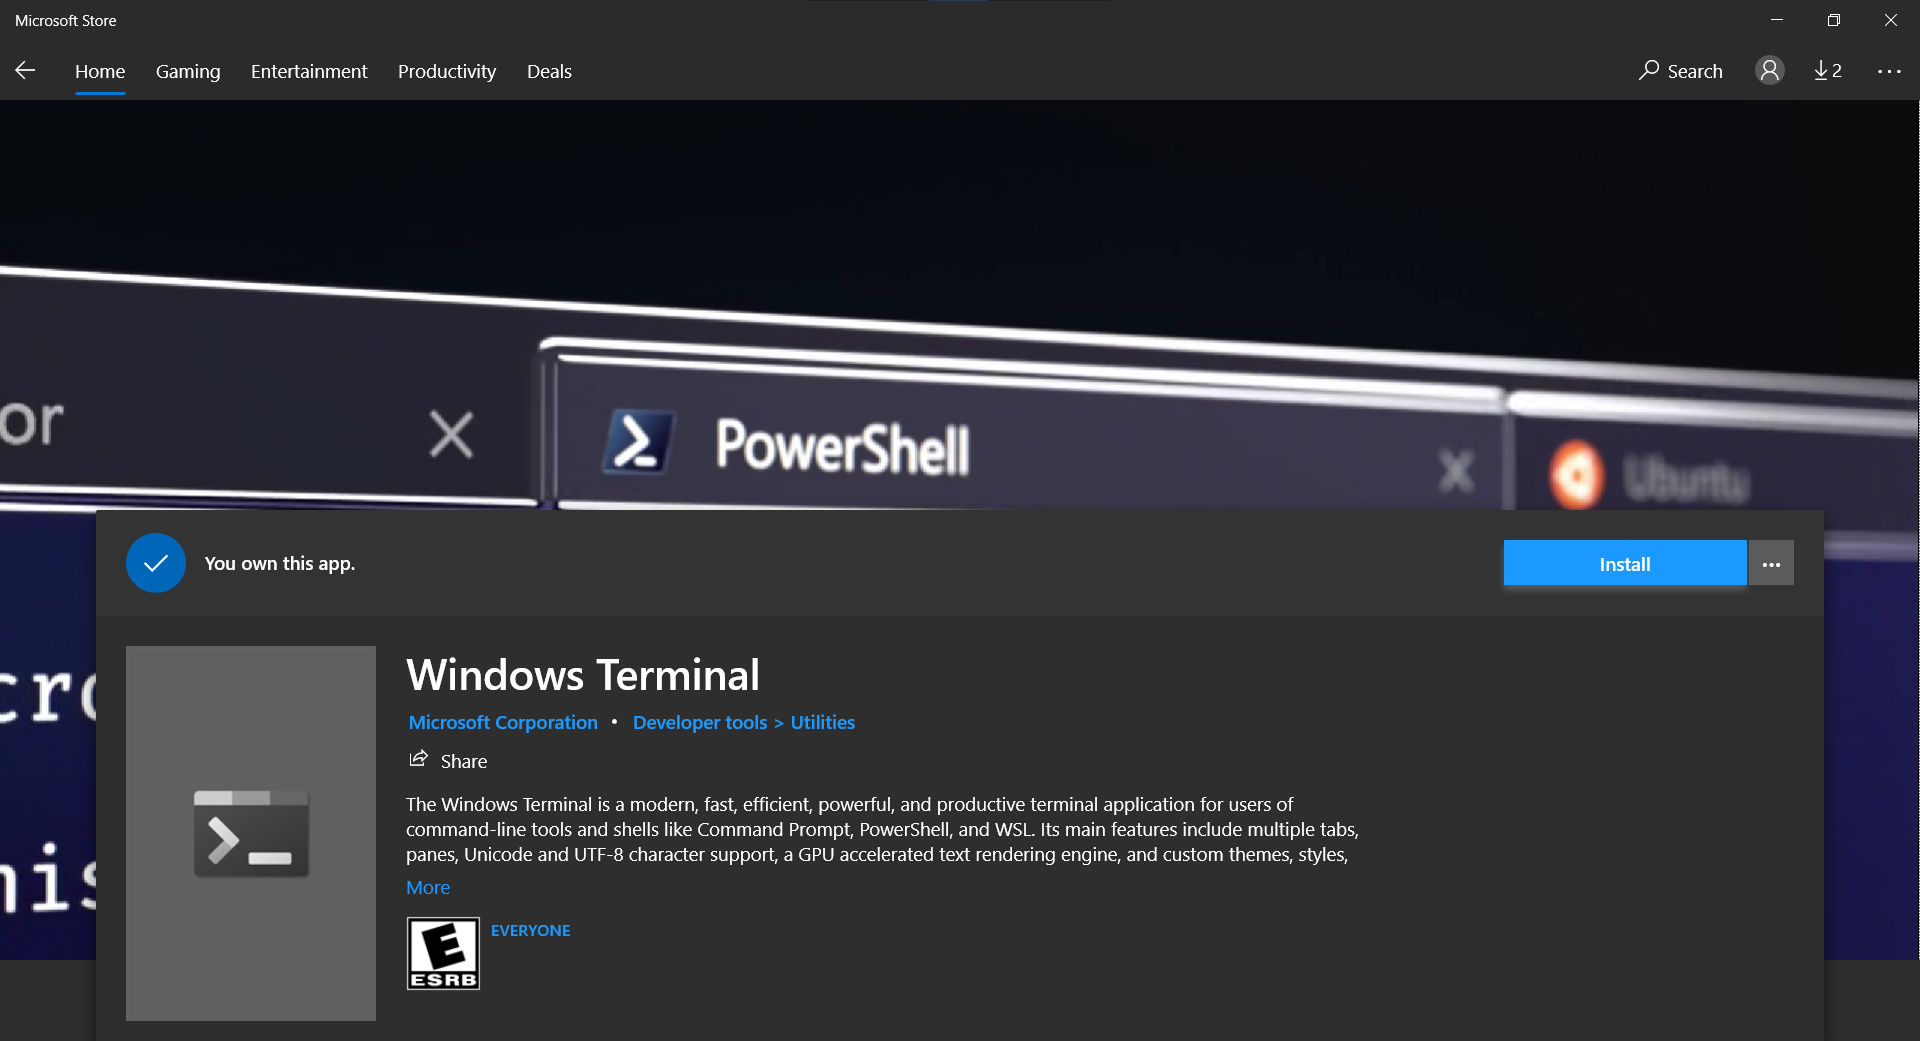
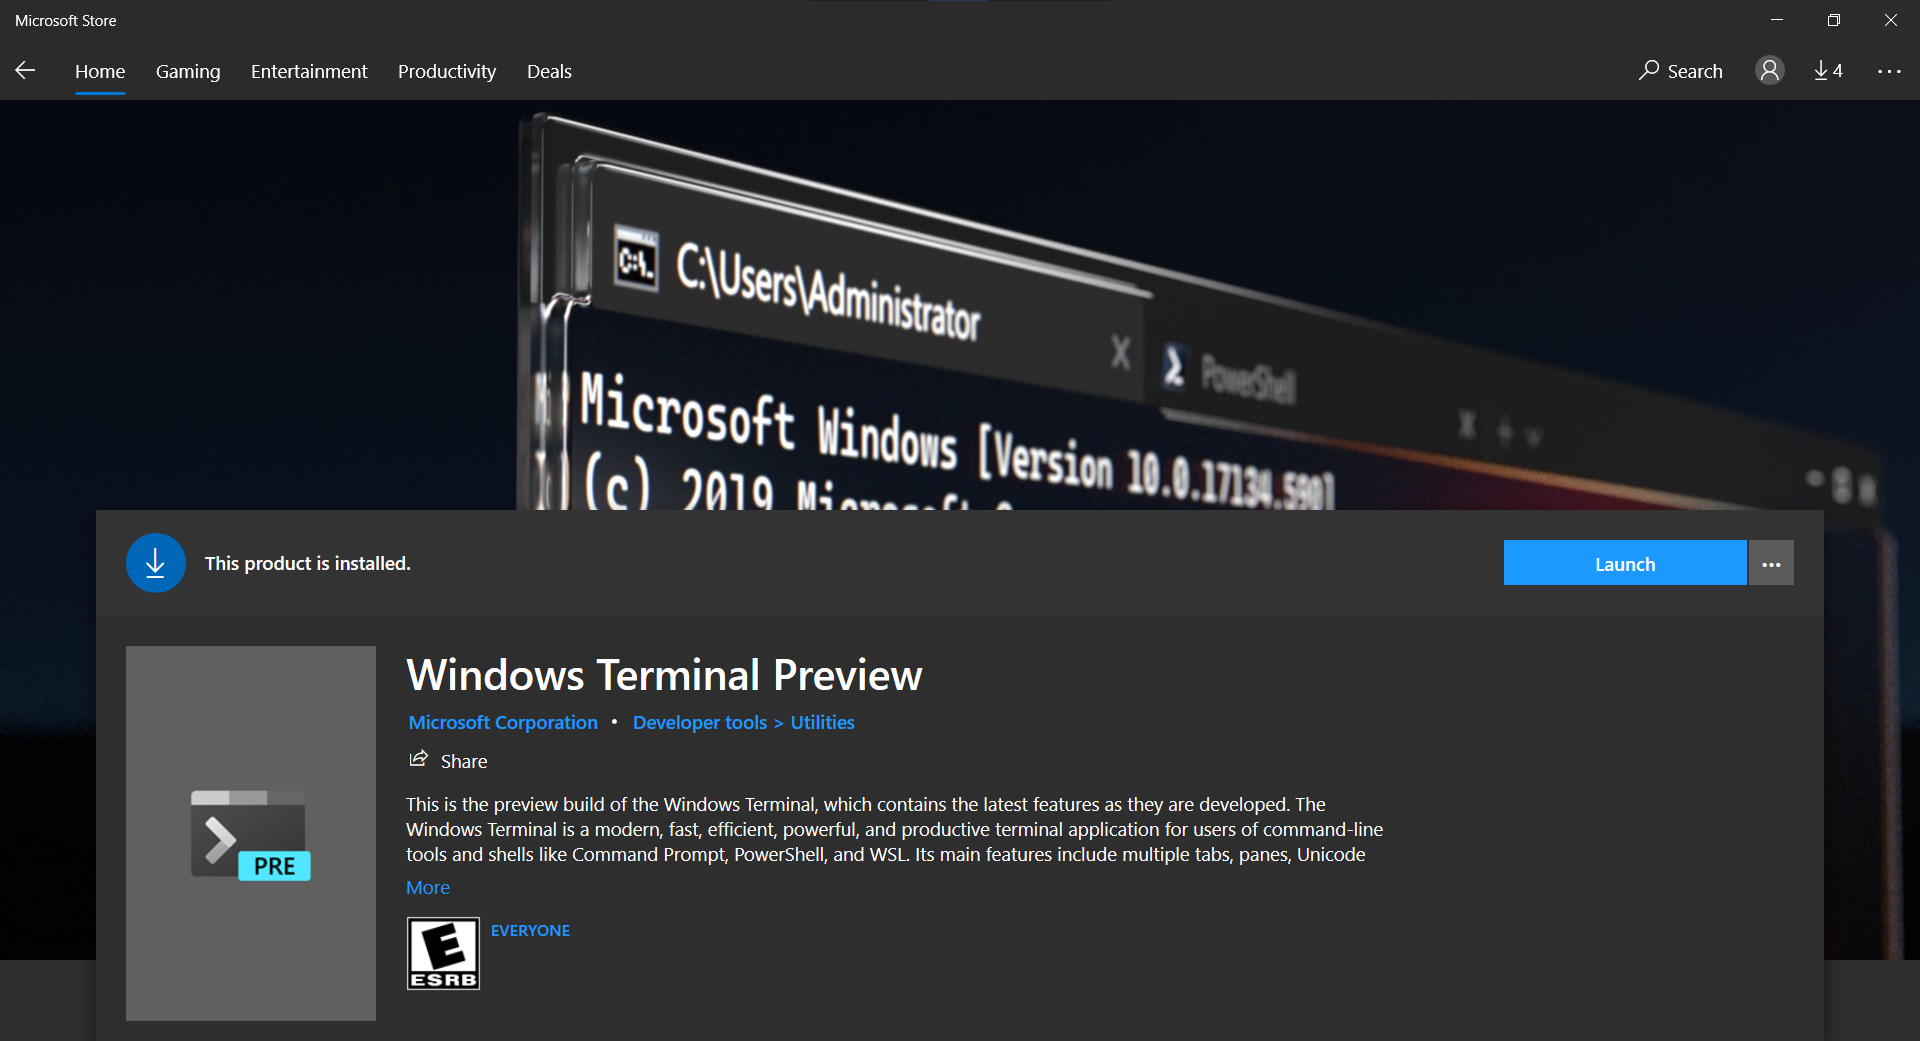
Documentar mejor el proceso de Instalación para una mejor compresión :smile:

diff --git a/README.md b/README.md
@@ -6,6 +6,13 @@
 ## [Visual Studio Code](https://code.visualstudio.com/download)
 ![VSCode](screenshots/vscode-nvim.png)
 
+> **Nota**: Si solamente deseas personalizar la Windows Terminal te compartó el enlace directo a dicha sección (*Instalar la PowerShell Core es **requerido***):
+# Enlaces directos
+
+### [Instalar la PowerShell Core 7](#powershell-core-7)
+### [Personalizar la Terminal](#personalizar-el-prompt-de-powershell)
+
+-----
 
 # Índice
 
@@ -16,20 +23,19 @@
   - [Chocolatey](#chocolatey)
 - [Neovim](#neovim)
   - [Dependecias](#dependecias)
+  - [Instalación de Neovim](#instalación-de-neovim)
+  - [Instalar manejador de Plugins](#instalar-manejador-de-plugins)
+    - [Recomendaciones](#recomendaciones)
+- [Extra](#extra)
+  - [Personalizar el prompt de PowerShell](#personalizar-el-prompt-de-powershell)
+    - [Instalar una fuente compatible](#instalar-una-fuente-compatible)
+    - [Instalación de Oh My Posh](#instalación-de-oh-my-posh)
+  - [Agregar Perfil de PowerShell Core](#agregar-perfil-de-powershell-core)
 
 # Información General
 
 Esta guía ha sido realizada con el propósito de crear una solución a la instalación y configuración un poco tediosa de Neovim en el Sistema Operativo Windows 10.
 Con está guía podrás obtener una configuración decente de Neovim en Windows 10 y poder incrementar tu productividad a la hora de escribir código.
-
-> **Disclaimer:** Mis configuraciones de Neovim están inspiradas en las de los creadores de contenido [Chris At Machine](https://youtube.com/ChrisAtMachine), [Antonio Sarosi](https://youtube.com/AntonioSarosi) y [Joaquín Varela](https://www.youtube.com/channel/UCw1Ipy5_P1OL0zUJMfYC7-A). Los invito a visitar sus redes sociales.
-
-Perfil de GitHub de cada autor:
-- :octocat: [Chris At Machine](https://github.com/ChristianChiarulli)
-- :octocat: [Antonio Sarosi](https://github.com/antoniosarosi)
-- :octocat: [Joaquín Varela](https://github.com/JoakoV3)
-
-
 
 # Requerimientos
 Para realizar la instalación de Neovim primero debemos contar con las siguientes herramientas o utilidades en nuestro sistema, es **importante no saltarse ningún paso**.
@@ -38,29 +44,37 @@ Para realizar la instalación de Neovim primero debemos contar con las siguiente
 
 Para poder utilizar Neovim y toda su potencia necesitamos un emulador de terminal más bonito que el clásico y viejo CMD o la PowerShell de Windows, así que vamos a hacer a instalar la Windows Terminal.
 
-Para poder descargar la Windows Terminal tenemos distintas opciones, pero en este caso haremos uso de la Windows Store.
-Así que solamente necesitamos acceder a la [Windows Store](https://www.microsoft.com/en-us/store/apps/windows) y en la barra de búsqueda escribimos: Windows Terminal. Seleccionamos cualquier opción, puede ser la Windows Terminal o Windows Terminal Preview.
+Accedemos a la [Microsoft Store](https://www.microsoft.com/en-us/store/apps/windows) y en la barra de búsqueda escribimos: Windows Terminal Preview. Seleccionamos la Windows Terminal Preview.
 
 ![Windows Terminal](screenshots/windows-terminal.png)
 
+Para personalizar la Terminal puedes usar los atajos de teclado ```Ctrl + ,```. 
+
+Puedes agregar una imagen de fondo, cambiar tamaño y el tipo de fuente, etc.
+Más adelente vamos a personalizar la PowerShell Core.
 
 ## PowerShell Core 7
 
-Ahora necesitamos una Shell más moderna y que se adapte a nuestras necesidades, así que vamos a instalar la [PowerShell Core](https://github.com/PowerShell/PowerShell).
+Ahora necesitamos una Shell más moderno y que se adapte a nuestras necesidades, así que vamos a instalar la [PowerShell Core](https://github.com/PowerShell/PowerShell).
 
 Para instalarla necesitaremos visitar la página de los Releases estables: [PowerShell Core](https://github.com/PowerShell/PowerShell/releases/tag/v7.1.3) y vamos a elegir el Instalador de Microsoft para la arquitectura de x64 bits.
 
 
 ![PowerShell Core](screenshots/powershell-core.png)
 
-Una vez descargado sólo necesitaremos ejecutar el Instalador y dar los clásicos clicks de siguiente, siguiente y finalizar. Puedes marcar la casilla de Launch PowerShell antes de darle a finalizar para abrir el programa.
+Una vez descargado sólo necesitaremos ejecutar el Instalador y dar los clásicos clicks de siguiente, siguiente y finalizar.
 
 
 ## Chocolatey
 
 En este caso íremos directo a la instalación de Chocolatey pero aquí puedes encontrar la [Guía Oficial](https://chocolatey.org/install) de Instalación del gestor de paquetes para Windows llamado [Chocolatey](https://chocolatey.org/).
 
-Para realizar la instalación de Chocolatey necesitamos abrir una ventana de la [PowerShell Core 7](https://es.wikipedia.org/wiki/PowerShell) que instalamos previamente y con permisos de **Administrador**, luego vamos a ejecutar la siguiente instrucción:
+Para realizar la instalación de Chocolatey necesitamos abrir una ventana de la [PowerShell Core 7](https://es.wikipedia.org/wiki/PowerShell) que instalamos previamente y **con permisos de Administrador**.
+
+![Run As Administrator](screenshots/Run-Administrator.png)
+
+
+Luego vamos a ejecutar la siguiente instrucción:
 
 ```powershell
 Set-ExecutionPolicy Bypass -Scope Process
@@ -71,6 +85,8 @@ Posteriormente necesitamos ejecutar la siguiente instrucción o **comando** para
 ```powershell
 Set-ExecutionPolicy Bypass -Scope Process -Force; [System.Net.ServicePointManager]::SecurityProtocol = [System.Net.ServicePointManager]::SecurityProtocol -bor 3072; iex ((New-Object System.Net.WebClient).DownloadString('https://chocolatey.org/install.ps1'))
 ```
+
+***Para limpiar la Terminal podemos usar la combinación de teclas ```Ctrl + L```, o también podemos escribir ```cls``` o ```clear```***.
 
 > Una vez realizado el paso anterior y que no hayan existido errores  puedes probar a escribir ```choco o choco -?``` para verificar que el programa existe. *No cerrar la Ventana de la PowerShell para el siguiente paso*.
 
@@ -83,13 +99,14 @@ Set-ExecutionPolicy Bypass -Scope Process -Force; [System.Net.ServicePointManage
 Una vez hayamos finalizado con la instalación de **chocolatey** haremos la instalación de las depencias necesarias para Neovim. 
 
 - RipGrep
+- NodeJS
 - Git 
 
-> *Si ya tienes **Git** instalado puedes omitir la opción borrando la palabra **git** u omite la primera instrucción y utiliza la segunda.*
+> *Si ya tienes **Git** y **NodeJS** instalado puedes omitir la opción borrando la palabra **git** u omite la primera instrucción y utiliza la segunda.*
 
 
 ```powershell
-choco install ripgrep git -y
+choco install ripgrep nodejs git -y
 ```
 
 ```powershell
@@ -101,29 +118,27 @@ choco install ripgrep -y
 
 Una parte importante para no tener problemas con RipGrep y obtener un filtrado del contenido de los archivos con FZF vamos a necesitar obtener la ruta de los comandos básicos en un shell de Linux y esto lo vamos a conseguir con Git **sin necesitad de utilizar WSL**.
 
-El siguiente comando es un pequeño one-liner que he hecho para agregar la ruta de los binarios básicos de un sistema Linux tradicional, para que funcioné se **necesitarán permisos de administrador**, así que deberás abrir administrador una ventana de Powershell Core y pegar los siguientes comandos.
+![Neovim FZF Preview](screenshots/Neovim-FZF.png)
+
+**Importante:** Sí acabas de instalar **Git** y **Node JS** es necesario que los añadas en el **PATH**, yo me encargué de hacerlo de manera permanente, es decir, no tendrás que ir directamente a añadir la ruta de manera manual.
 
 
-Primero para las variables de Sistema:
+El siguiente comando es una pequeño Script de automazación que yo he hecho para agregar la ruta de los binarios básicos de un sistema Linux tradicional, también la ruta del ejecutable de NodeJS, Neovim y Git de manera permanente, para que funcioné se **necesitará abrir la Windows Terminal o PowerShell Core con permisos de administrador**.
 
-```powershell
-$GIT_USR_PATH = (cmd /c where git); $GIT_USR_PATH -replace "\\cmd\\git.exe", "\usr\bin" | `
-  Tee-Object -Variable GIT_USR_PATH; [Environment]::SetEnvironmentVariable("Path", $env:Path + ";$GIT_USR_PATH", "Machine")
-```
+> Ojo, esto funcionará si has hecho la instalación por defecto de Git y Node JS, es decir, que no hayas cambiado la ruta donde ha sido instalado.
 
-Ahora para las variables de Usuario:
-```powershell
-$GIT_USR_PATH = (cmd /c where git); $GIT_USR_PATH -replace "\\cmd\\git.exe", "\usr\bin" | `
-  Tee-Object -Variable GIT_USR_PATH; [Environment]::SetEnvironmentVariable("Path", $env:Path + ";$GIT_USR_PATH", "User")
-```
-
-**Importante en caso de errores:** te podría indicar el siguiente error: *Could not find files for the given pattern(s)* si no tenías Git instalado y no tienes agregada la ruta de Git en el PATH necesitarás lo siguiente. Funcionará si has hecho la instalación por defecto, para ello pega el siguiente comando en la PowerShell Core para agregarlo de forma temporal en el PATH: 
+Vamos a agregar las rutas al Path de las Variables del Sistema, solamente pega lo siguiente en **Modo Administrador**:
 
 ```powershell
-$env:Path += ";C:\Program Files\Git"
+$env:Path += ";C:\Program Files\Git\cmd"; $ACTUAL_PATH = (Get-ItemProperty -Path 'Registry::HKEY_LOCAL_MACHINE\System\CurrentControlSet\Control\Session Manager\Environment' -Name path).path;`
+$GIT_USR_PATH = (cmd /c where git); $GIT_USR_PATH -replace "\\cmd\\git.exe", "\usr\bin" | Tee-Object -Variable GIT_USR_PATH; $NEW_PATH = "$ACTUAL_PATH;$GIT_USR_PATH;C:\Program Files\Git\cmd;C:\Program Files\nodejs;C:\tools\neovim\Neovim\bin"; Set-ItemProperty -Path 'Registry::HKEY_LOCAL_MACHINE\System\CurrentControlSet\Control\Session Manager\Environment' -Name path -Value $NEW_PATH
 ```
+Una vez pegado es cuestión de darle **Enter** para ejecutar la instrucción.
 
-Finalmente haremos la instalación de neovim, para ello vamos a utilizar **permisos de administrador** en una PowerShell Core y pegar la siguiente instrucción de instalación con chocolatey:
+> **Descripción:** Lo primero que hace el script es agregar de manera temporal **Git** en las variables de entorno, luego hace la búsqueda del Path de las variables del sistema y las guarda en una variable. Luego creo una variable para guardar la ubicación del *usr\\bin* de Git. Finalmente en una variable nueva guardo las rutas que agregaré y finalmente las guarda de forma permanente en las Variables del Sistema (*hice muchas pruebas en mi máquina y en máquinas virtuales para asegurarme de que todo funcione correctamente*).
+
+## Instalación de Neovim
+Para la instalación vamos a utilizar **permisos de administrador** en una PowerShell Core o nuestra Windows Terminal y pegar la siguiente instrucción de instalación con chocolatey:
 
 ```powershell
 choco install neovim -y --pre
@@ -131,6 +146,7 @@ choco install neovim -y --pre
 
 > La flag *--pre* le índica a chocolatey que vamos a instalar una versión de un programa en su fase beta, es decir, un pre-release de una aplicación, en este caso [**Neovim**](https://neovim.io) en su versión 0.5.0.
 
+## Instalar manejador de Plugins
 Una vez instalado vamos a necesitar un manejador de Plugins para nuestro editor, en nuestro caso será [vim-plug](https://github.com/junegunn/vim-plug).
 
 Puedes revisar la Guía de Instalación en el README del repositorio oficial de vim-plug, para acelerar el proceso dejo el comando que se necesita para PowerShell el cual solamente necesitarás pegar.
@@ -150,6 +166,122 @@ git clone https://github.com/antonio0x/neowindows.git $HOME\AppData\Local\nvim
 
 Llegados hasta este punto vamos a ejecutar ahora sí neovim, para ello escribimos ```nvim``` en la PowerShell y de primera mano tendremos varias advertencias de que existen cosas que no existen o no se han encontrado.
 
-Para resolverlos solamente necesitaremos ejecutar dentro de ```nvim``` el comando ```:PlugInstall``` e inmediamente se instalarán todos los Plugins que tengo en mi lista. 
+![Una Imagen aquí](screenshots/Neovim-PlugError.png)
 
-Una vez terminada la instalación solamente necesitarás recargar neovim, para ello sólo necesitarás salir con ```:q``` o ```:q!``` y luego volver a entrar a **nvim**, y si todo funcionó, ya estás listo para utilizar mis configuraciones en tu sistema.
+Para resolverlos, sólo le damos un **Enter** y luego vamos a ejecutar dentro de ```nvim``` el comando ```:PlugInstall``` e inmediamente se instalarán todos los Plugins que están en la lista. 
+
+![](screenshots/Plug-Install.png)
+
+Una vez hecho esto puedes cerrar el editor con ```:q!``` y volver a abrirlo, y ya tendrías el editor de texto **Neovim** configurado en tu sistema :).
+
+### Recomendaciones
+
+Una vez instalado todos los plugins puedes instalar distintas extensiones utilizando [**COC**](https://github.com/neoclide/coc.nvim) (Conquer Of Completion) para autocompletado de diferentes lenguajes.
+
+Te comparto la lista de las diferentes extensiones que están disponibles :point_right: [:link:](https://github.com/neoclide/coc.nvim/wiki/Using-coc-extensions#implemented-coc-extensions).
+
+> Si programas para la Web te dejó el comando para que puedas instalar las extensiones más escenciales:
+
+Dentro de neovim utiliza los ```:``` para iniciar un comando y pega lo siguiente y posteriormente un ```Enter```:
+```vim
+CocInstall coc-tsserver coc-json coc-emmet coc-html coc-css 
+```
+
+# Extra
+
+## Personalizar el prompt de PowerShell
+
+En esta sección vamos a personalizar nuestro interprete de comandos haciendo uso de [**Oh My Posh**](https://ohmyposh.dev/), un engine de Temas.
+
+### Instalar una fuente compatible
+Para que nuestro prompt se vea genial necesitaremos instalar alguna fuente que nos permita hacerlo. Así que vamos a hacer uso de las [**Nerd Fonts**](https://www.nerdfonts.com/font-downloads).
+
+Puedes seleccionar la fuente de tu preferencia, todas nos permitirán visualizar los iconos necesarios para nuestra terminal.
+
+![Descargar Fuentes](screenshots/nerd-fonts.png)
+
+Para instalar las fuentes solamente selecciona todos los archivos e instala todas las fuentes (recomiendo la primera opción del texto en Negrita **Install** o **Instalar**).
+
+
+![Instalar Fuentes](screenshots/Fonts-Install.png)
+
+Para cambiar la fuente en la Windows Terminal sólo es de hacer lo siguiente:
+
+Abrimos la Windows Terminal y abrimos la configuración usando los atajos de teclado ```Ctrl + ,```.
+
+O también se puede hacer a través de la interfaz gráfica:
+
+![Windows Terminal Settings](screenshots/Terminal-Settings.png)
+
+Para remover el padding o espaciado entre la terminal:
+
+![Padding](screenshots/Padding.png)
+
+Una guía rápida de como cambiar la fuente:
+
+![Windows Terminal Settings](screenshots/Customize-Font.png)
+
+
+### Instalación de Oh My Posh
+Para instalar **Oh My Posh** vamos a instalar un par de módulos haciendo uso de la **PowerShell Core**, el primero será:
+
+```powershell
+Install-Module oh-my-posh -Scope CurrentUser
+```
+
+Ahora para obtener ayudas o información de un repositorio de Git necesitaremos el siguiente módulo:
+
+```powershell
+Install-Module posh-git -Scope CurrentUser
+```
+
+También necesitaremos el siguiente módulo para la PowerShell Core.
+ (Acerca de [PSReadLine](https://docs.microsoft.com/en-us/powershell/module/psreadline/?view=powershell-7.1&WT.mc_id=-blog-scottha&viewFallbackFrom=powershell-6))
+
+```powershell
+Install-Module -Name PSReadLine -AllowPrerelease -Scope CurrentUser -Force -SkipPublisherCheck
+```
+## Agregar Perfil de PowerShell Core
+
+Finalizada la instalación de los módulos vamos a agregar las configuraciones a nuestro perfil de usuario de PowerShell Core.
+
+Primero vamos a editar o crear el perfil, para ello solamente ejecutamos la siguiente instrucción:
+
+> Sí has instalado Neovim puedes utilizarlo para editar el archivo o fichero ```nvim $PROFILE```, caso contrarior puedes usar el ```notepad```.
+
+```powershell
+notepad $PROFILE
+```
+
+Problamente si sea primera vez que utilizas la PowerShell Core te aparecerá una ventana emergente que te pedirá confirmar si deseas crear un Perfil de PowerShell, así que sólo da **Click en Sí**.
+
+Ahora pega las siguientes líneas en el archivo y guarda el archivo, si lo haces en Neovim cierra el archivo para volver a la PowerShell.
+
+```powershell
+Import-Module posh-git
+Import-Module oh-my-posh
+Set-PoshPrompt -Theme marcduiker
+```
+
+> Para hacer que lo anterior tenga efecto sólo escribe lo siguiente o cierra la PowerShell y abré una nueva ventana:
+
+```powershell
+. $PROFILE
+```
+
+Para poder ver los temas que están disponibles utiliza la siguiente instrucción:
+
+```powershell
+Get-PoshTheme
+```
+Podrás tener una gran variedad de Temas para elegir, cuando ejecutes el comando tendrás una salida como la siguiente:
+
+![Posh-Themes](screenshots/Posh-Themes.png)
+
+Para poder cambiar un tema sólo necesitaras **abrir el archivo del Perfil** de PowerShell, pueder ser siempre de la siguiente manera: ```notepad $PROFILE```.
+
+Una vez abierto edita la siguiente línea y luego lo guardas:
+
+```powershell
+Set-PoshPrompt -Theme nombreDelTema
+```
